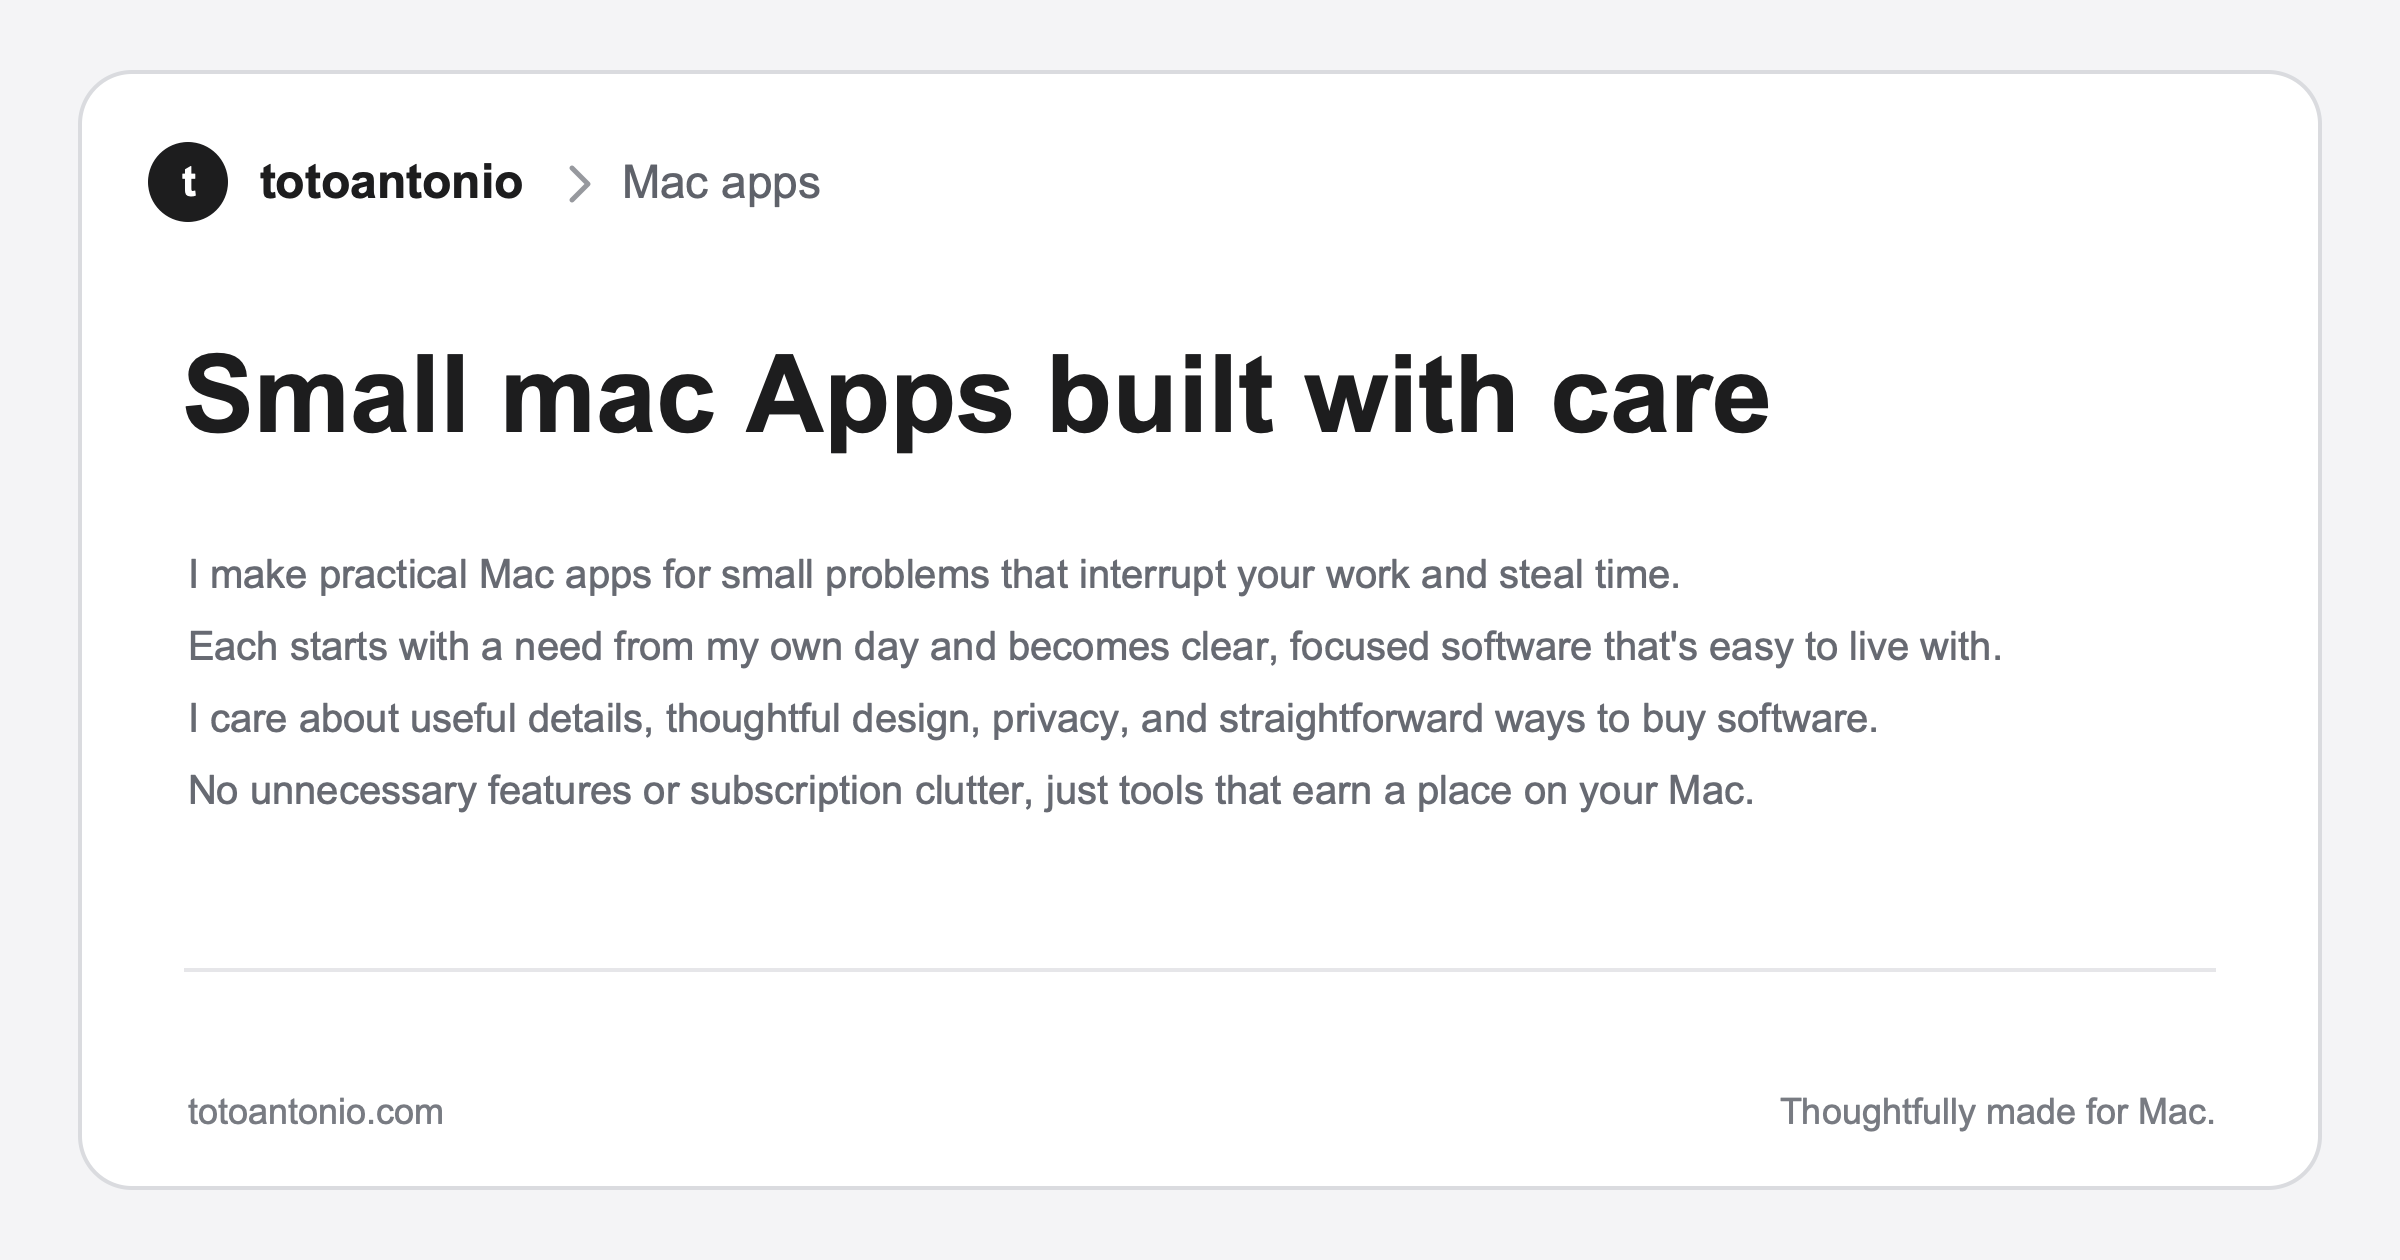
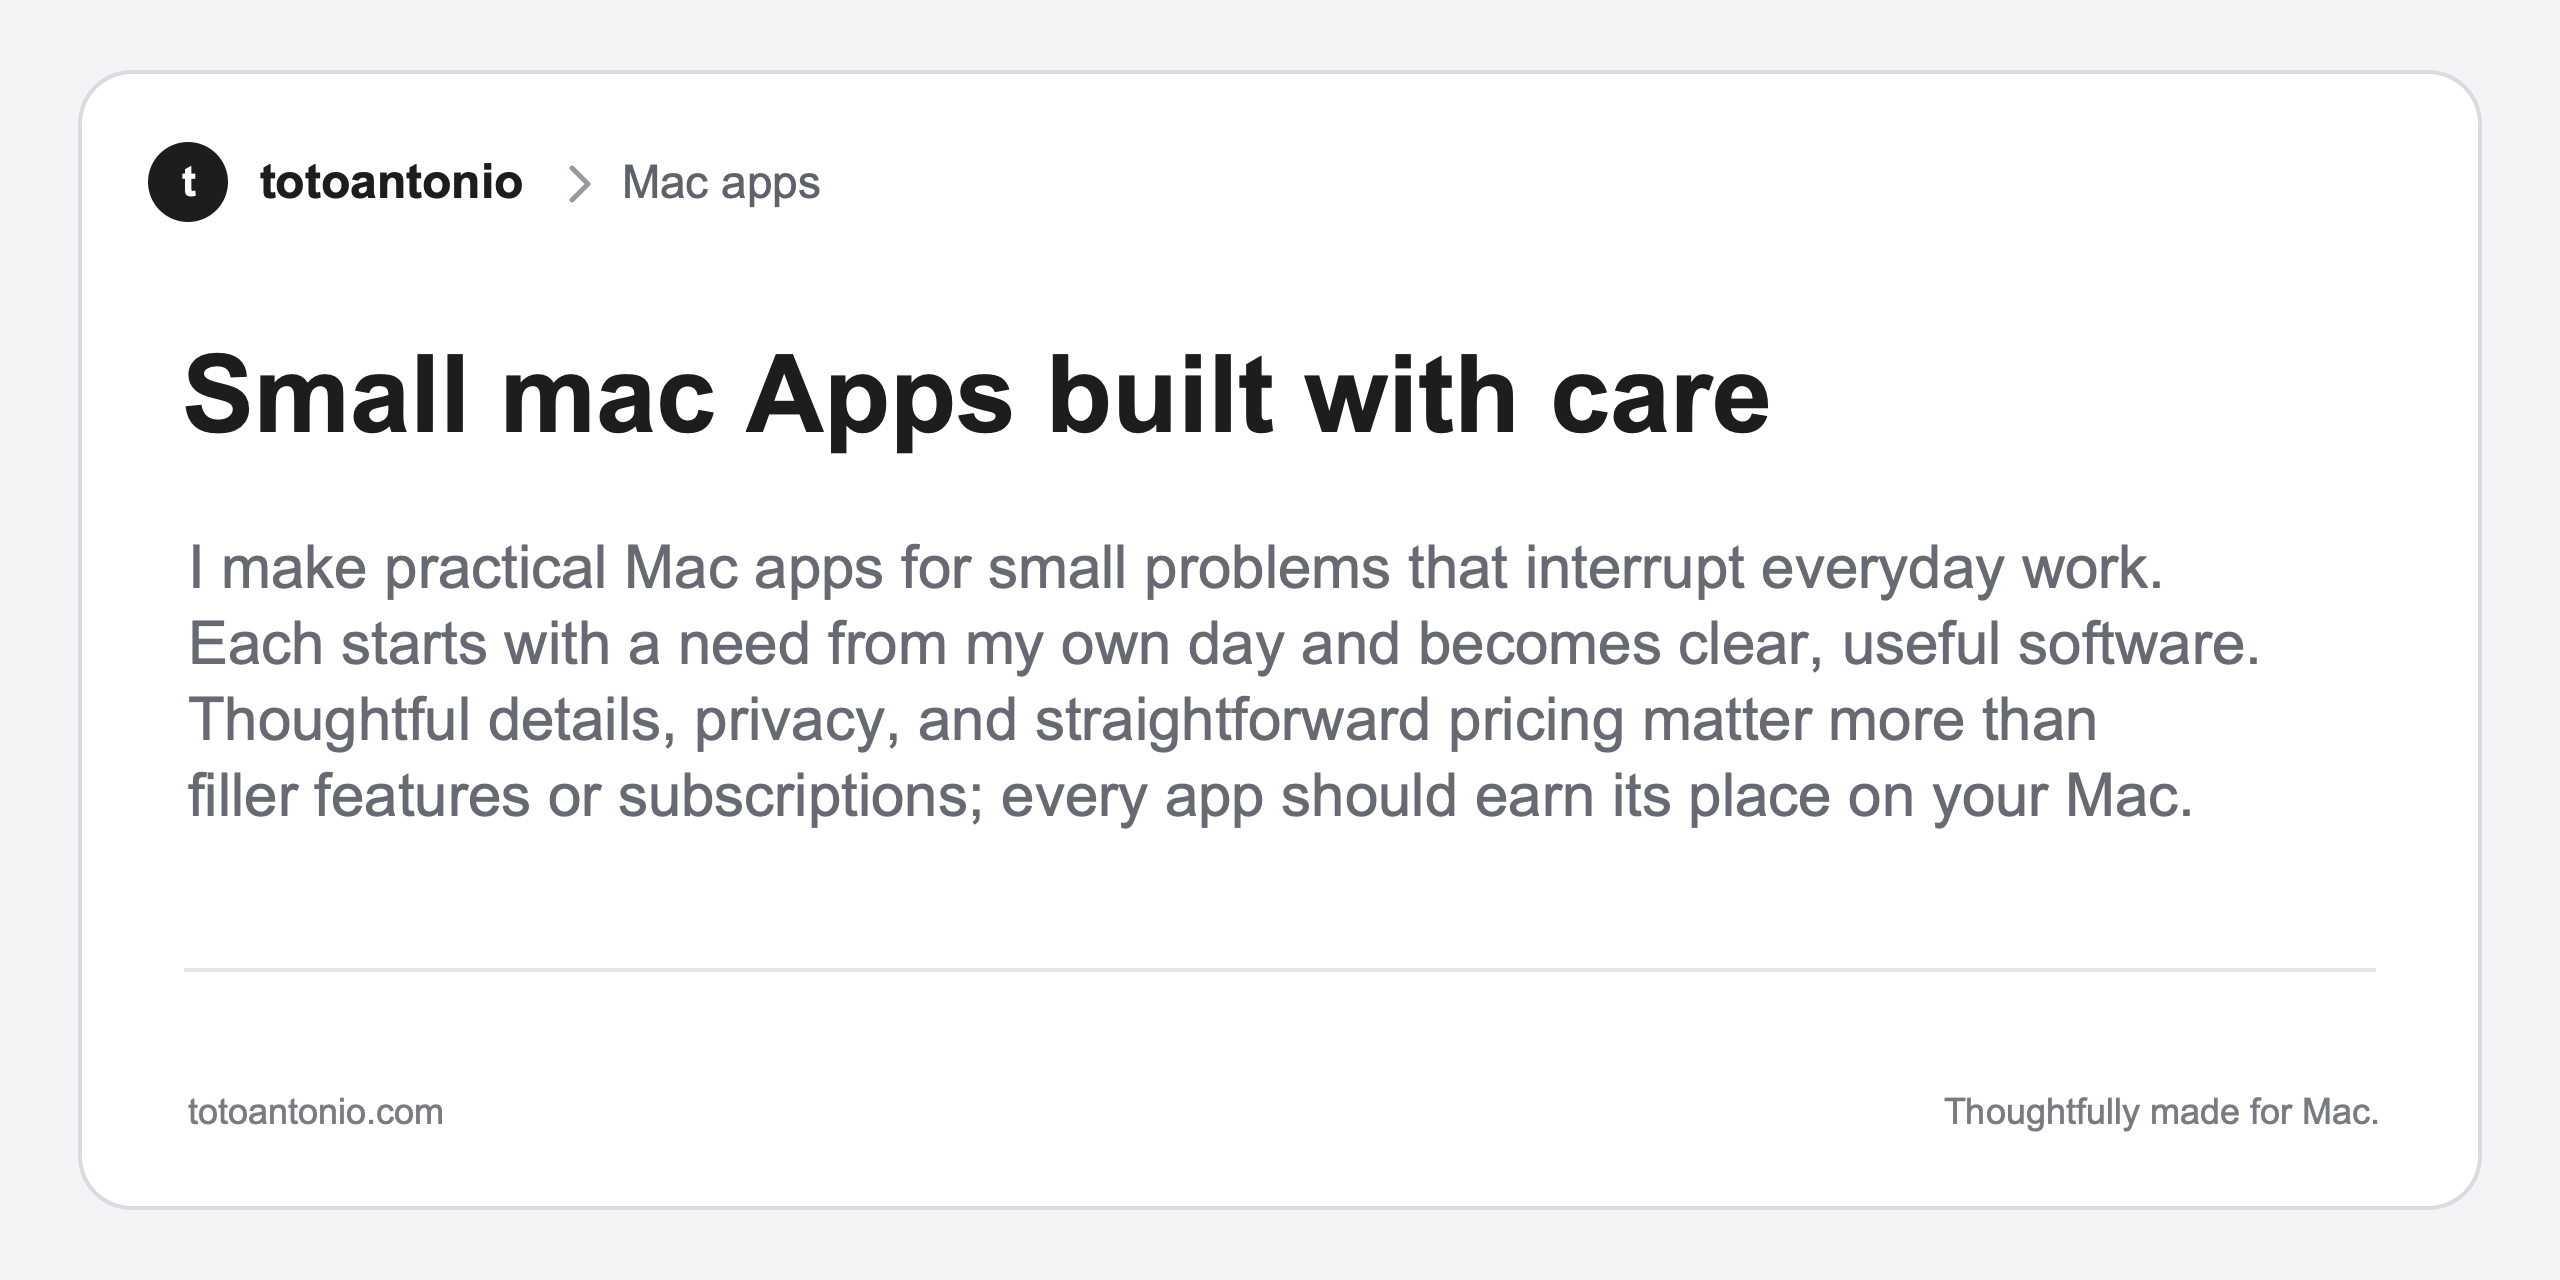
Improve OG image legibility

diff --git a/index.html b/index.html
@@ -33,11 +33,11 @@ src="https://www.facebook.com/tr?id=4743844149273433&ev=PageView&noscript=1"
 <meta property="og:type" content="website">
 <meta property="og:url" content="https://totoantonio.pages.dev/">
 <meta property="og:site_name" content="totoantonio">
-<meta property="og:image" content="https://totoantonio.pages.dev/og-image.png?v=4">
+<meta property="og:image" content="https://totoantonio.pages.dev/og-image.png?v=5">
 <meta name="twitter:card" content="summary_large_image">
 <meta name="twitter:title" content="totoantonio — Squeezing useful software into the edges of a busy day job.">
 <meta name="twitter:description" content="Mac apps built out of need and necessity: macEQ, KeyboardS and Upscape.">
-<meta name="twitter:image" content="https://totoantonio.pages.dev/og-image.png?v=4">
+<meta name="twitter:image" content="https://totoantonio.pages.dev/og-image.png?v=5">
 
 <link rel="icon" href="favicon.ico?v=2" sizes="any">
 <link rel="icon" type="image/png" sizes="32x32" href="favicon-32.png?v=2">
